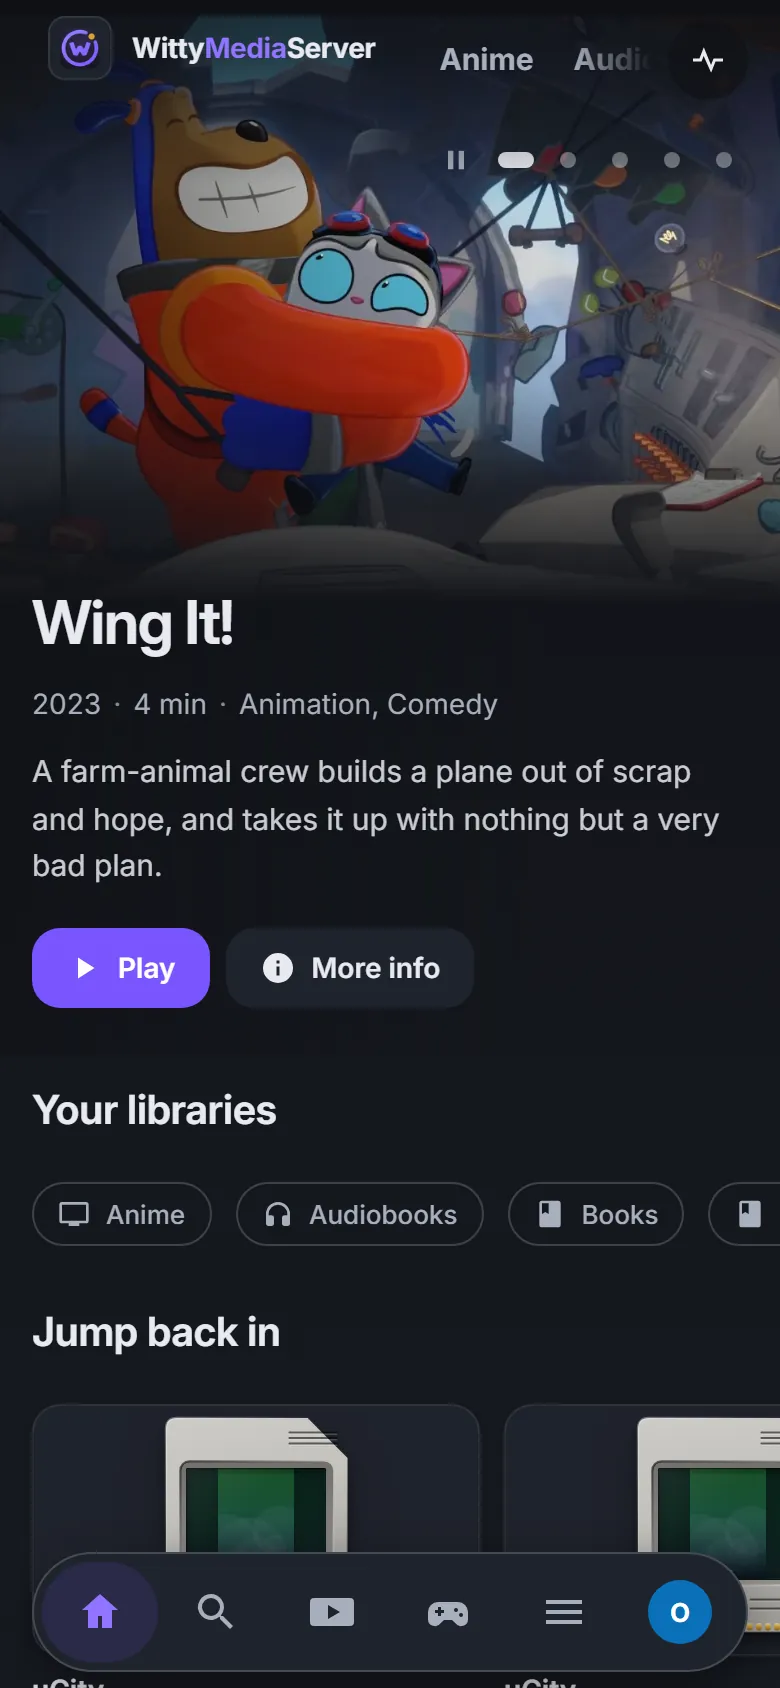
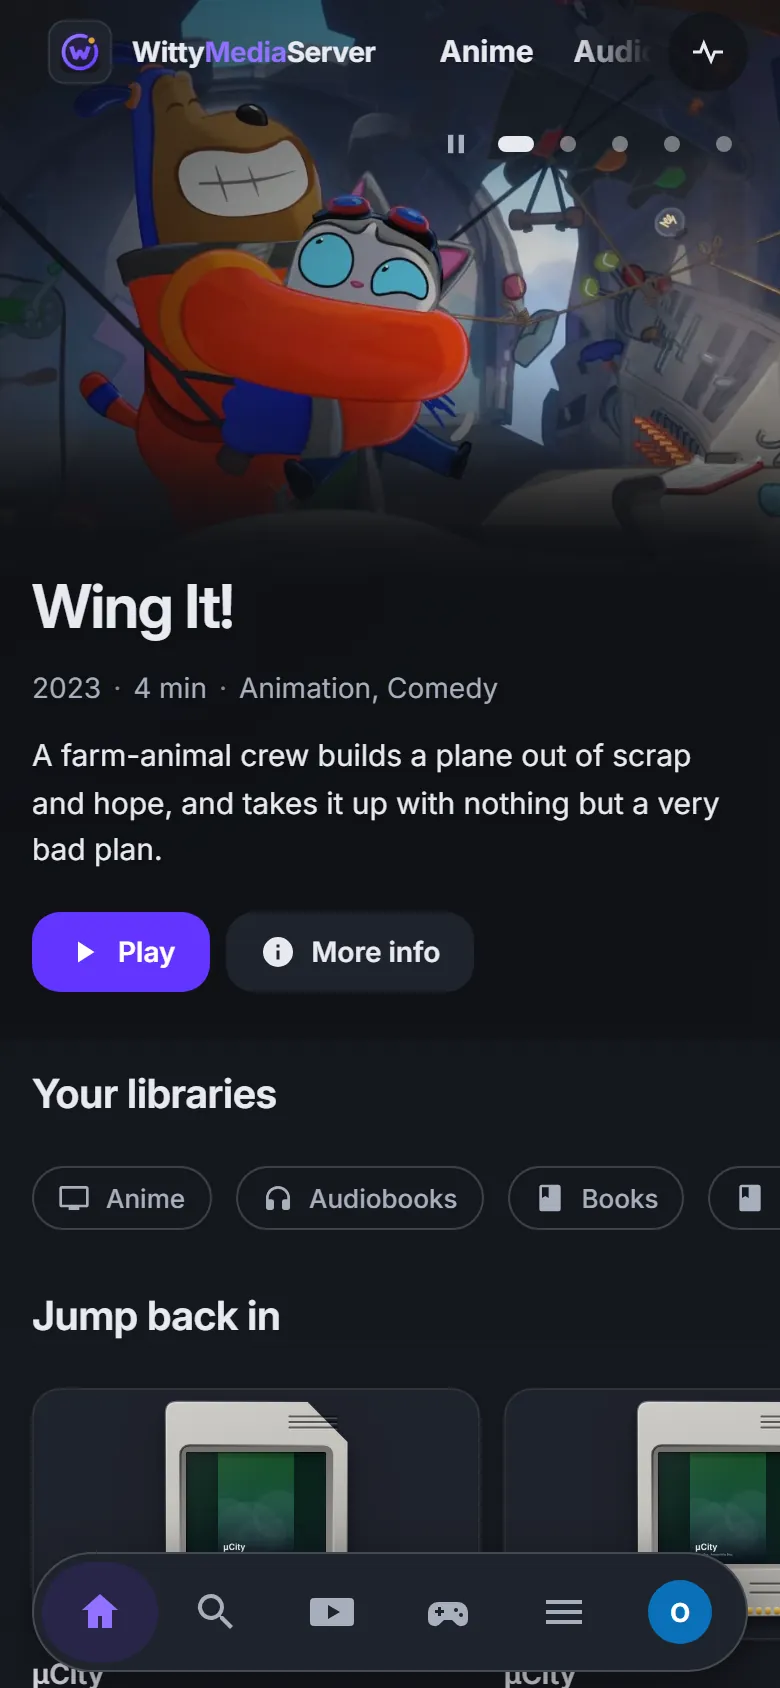
README pictures from 0.8.1-alpha: TV mode in place of the big-screen view, and the phone retaken
The desktop window (client-home) and the Apple apps need a real window or a simulator: MAC-FOLLOW-UPS.md lists them.

diff --git a/MAC-FOLLOW-UPS.md b/MAC-FOLLOW-UPS.md
@@ -6,6 +6,20 @@ Newest first. Each section is one pass that needs a Mac: Xcode, the iPhone and A
 app. Work through the newest first, tick each box here as you go, commit the ticks, and say in the PR what ran and what
 didn't. The GitHub issues labelled `mac` point at these sections.
 
+## Pictures the Windows PC couldn't take (2026-11-23)
+
+The README's and the server's pictures were retaken for 0.8.1-alpha on Windows, from a test server filled only with
+the openly licensed media in `D:\WittyDemoMedia` (its README says how to rebuild that server). Pictures of the apps
+themselves need a real window or a simulator, which that session couldn't open, so these are left:
+
+- [ ] **1.** `docs/images/client-home.webp` here and in the server's `docs/images/`: still the 0.8.0 desktop app.
+  Open the macOS desktop app, connect to a demo server built from the release's branch (never one with your own
+  media), and take Home at 1920 × 1080. Credit it as the old one is: "WittyMediaClient on a desktop, connected to a test server".
+- [ ] **2.** iPhone, iPad and Apple TV pictures, if the README or a store listing is to show them: Home, a film's page,
+  the TV guide with **Shortcuts** open, and an album's page (the 0.8.1 TV album page), from the simulators, signed in
+  to the same demo server. Add each to `docs/images/CREDITS.md`.
+- [ ] **3.** Use made-up profile names only, and keep the menu bar, Dock and other apps out of the frame.
+
 ## WittyMediaClient 0.6.0: what's left for the owner (2026-11-23)
 
 0.6.0 was tagged from the Windows PC with `tag.yml`, and `release.yml` built and published every package: Windows,

diff --git a/docs/images/CREDITS.md b/docs/images/CREDITS.md
@@ -5,5 +5,5 @@ Pictures taken from a test server of WittyMediaServer, filled with openly licens
 | Picture | What it shows |
 |---|---|
 | `client-home.webp` | WittyMediaClient on a desktop, connected to a test server. From a test server. The server's [credits list](https://github.com/wittywilla/WittyMediaServer/blob/master/docs/images/CREDITS.md) names everything shown. |
-| `big-screen.webp` | The big-screen view the app shows on a TV, here in a browser. From a test server. The server's [credits list](https://github.com/wittywilla/WittyMediaServer/blob/master/docs/images/CREDITS.md) names everything shown. |
+| `tv-mode.webp` | TV mode, the layout the TV apps use, here in a browser. From a test server. The server's [credits list](https://github.com/wittywilla/WittyMediaServer/blob/master/docs/images/CREDITS.md) names everything shown. |
 | `phone-home.webp` | The server's pages at phone width, here in a browser. From a test server. The server's [credits list](https://github.com/wittywilla/WittyMediaServer/blob/master/docs/images/CREDITS.md) names everything shown. |

diff --git a/README.md b/README.md
@@ -17,9 +17,9 @@ This is alpha software. WittyMediaClient 0.5.x goes with WittyMediaServer 0.8.0-
 
 <sub>WittyMediaClient on a desktop, connected to a test server. From a test server. The server's [credits list](https://github.com/wittywilla/WittyMediaServer/blob/master/docs/images/CREDITS.md) names everything shown.</sub>
 
-![The big-screen view for a TV](docs/images/big-screen.webp)
+![TV mode: the server's libraries as large tiles, with Home, Live TV, Libraries, Books, More and Search along the top](docs/images/tv-mode.webp)
 
-<sub>The big-screen view the app shows on a TV, here in a browser. From a test server. The server's [credits list](https://github.com/wittywilla/WittyMediaServer/blob/master/docs/images/CREDITS.md) names everything shown.</sub>
+<sub>TV mode, the layout the TV apps use, here in a browser. From a test server. The server's [credits list](https://github.com/wittywilla/WittyMediaServer/blob/master/docs/images/CREDITS.md) names everything shown.</sub>
 
 ![The home page at phone width](docs/images/phone-home.webp)
 
